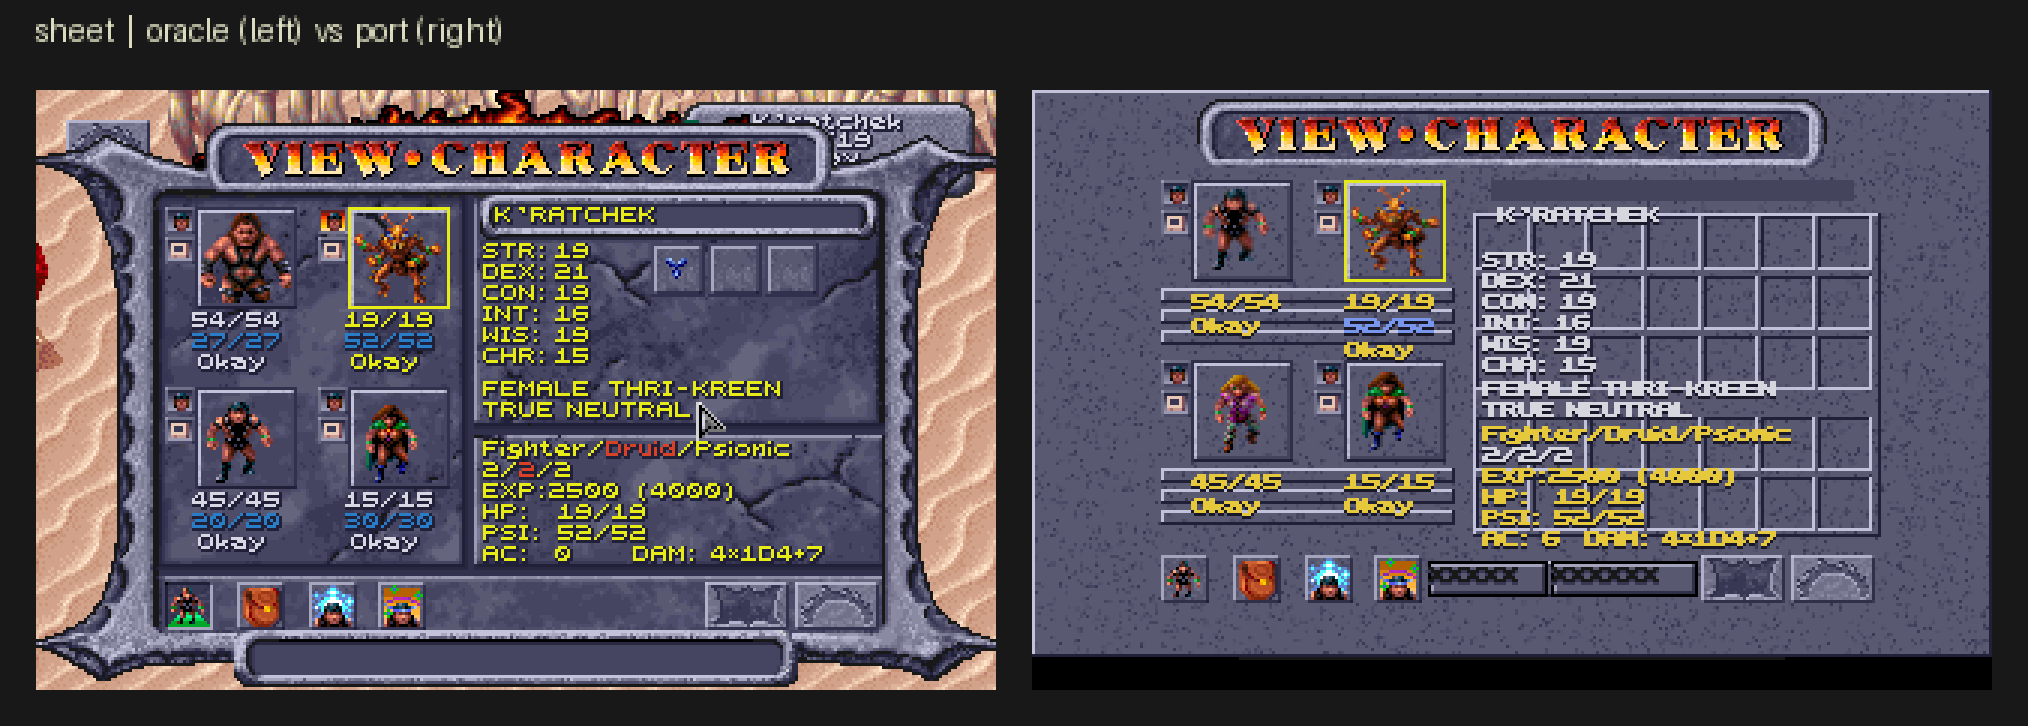
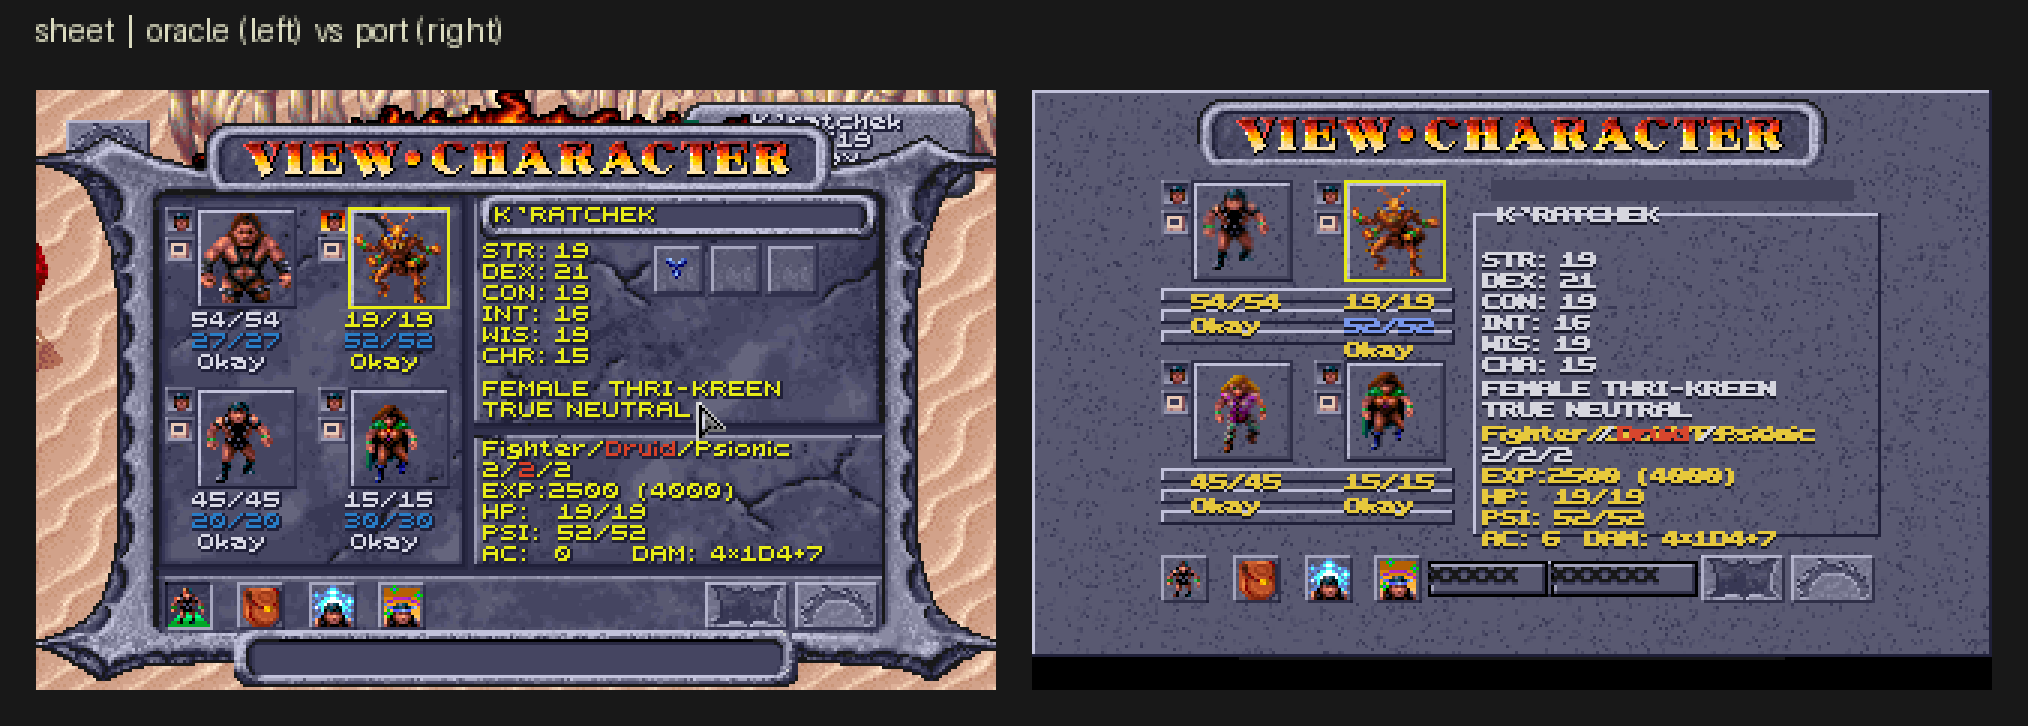
port-spike: spell info 15503, item examine 15502, interact 3020, per-class colors
SpellInfoScreen (WIND 15503, plate 15002): right-clicking a USE-grid
spell opens its SPIN chunk text (the game's own description) wrapped
at the EBOX 15400 width; spins.json exports all 180 SPIN descriptions.

ExamineScreen (WIND 15502): right-clicking an occupied inventory cell
shows the item's icon, name, damage or AC bonus, and weight (IT1R
fields via the exporter).

InteractScreen (WIND 3020): the talk/steal/give/INFO strip with the
capability mask dimming, bevel clipped to the 92x77 window; clicking
a world entity in play opens it, talk replays the announcer patter.

Sheet: the multi-class line draws per-class coloured segments
(Fighter/Gladiator/Ranger/Psionic gold, Druid/Preserver red, Cleric
white) per the 0x72D29 group structure, sampled from the oracle
capture.

Changed region(s): [[0.7456, 0.2727, 0.932, 0.5455], [0.7456, 0.5758, 0.932, 0.7576], [0.7766, 0.5152, 0.8077, 0.5455]]

diff --git a/port-spike/export_items.py b/port-spike/export_items.py
@@ -139,6 +139,12 @@ def export_item_icons(pal) -> dict[int, dict]:
             )
             if 0 <= row.name_idx < len(pool):
                 name = pool[row.name_idx]
+        weight = 0
+        base_ac = 0
+        if row is not None and 0 <= row.stats_index < len(it1r) // 20:
+            st_row = ec.decode_ds1_it1r(it1r, row.stats_index)
+            weight = st_row.weight
+            base_ac = st_row.base_ac
         out[oid] = {
             "png": png,
             "w": w,
@@ -149,6 +155,8 @@ def export_item_icons(pal) -> dict[int, dict]:
             "sides": sides,
             "mod": mod,
             "attacks": attacks,
+            "weight": weight,
+            "base_ac": base_ac,
         }
         print(f"object {oid}: {name!r} bmp {bmp_id} {w}x{h} place {place}")
     return out
@@ -200,7 +208,33 @@ def export_overlays(pal) -> dict:
     out["parchment"] = {"png": "parchment_13005.png", "w": w, "h": h}
     print(f"BMP {PARCHMENT_BMP}: {w}x{h} parchment")
 
-    # overhead-map plate (the engine's O-key frame; no WIND carries it)
+    # the fourteen race/gender standing figures for the inventory
+    # centre card (port-digs-2026-09-20.md 1: 20000 + (race-1)*2 +
+    # (gender-1); BMP 20013 matched the oracle capture 100.0%)
+    for fid in range(20000, 20014):
+        fig = bmps[fid]
+        w, h, rgba = decode_container_frame(fig, 0, pal, resource=True)
+        write_png(OUT / f"figure_{fid}.png", w, h, rgba)
+    out["figures"] = {"first": 20000, "count": 14,
+        "rule": "20000 + (race_i - 1) * 2 + (gender_i - 1)",
+        "card_offset": [6, 13]}
+    print("figures 20000..20013 exported")
+
+    # SPIN spell descriptions (RESOURCE SPIN id = spell id; the text
+    # starts at byte 0: "NAME:  description ..."). 15503 shows these
+    # verbatim in its EBOX (screen-flow.md 8.4).
+    spins = {}
+    for cid, payload in ec.resolve_type(res, "SPIN"):
+        text = payload.decode("latin-1", errors="replace").replace("\x00", " ").strip()
+        if not text:
+            continue
+        name, _, desc = text.partition(":")
+        spins[str(cid)] = {"name": name.strip(), "text": text}
+    out["spins"] = spins
+    print(f"SPIN descriptions: {len(spins)}")
+
+    # LOAD-mode title art (the engine binds these onto 3009's buttons
+    # in LOAD mode; the chunk faces ship as the SAVE variant)
     plate = bmps[MAP_PLATE_BMP]
     w, h, rgba = decode_container_frame(plate, 0, pal, resource=True)
     write_png(OUT / "map_10003.png", w, h, rgba)
@@ -255,6 +289,19 @@ def export_overlays(pal) -> dict:
     Image.fromarray(arr[0:58, 1:319]).save(OUT / "dialog_plate_3007.png")
     out["dialog_plate"] = {"png": "dialog_plate_3007.png", "w": 318, "h": 58}
     print("dialog plate 3007 regenerated")
+
+    # SPIN spell descriptions (RESOURCE SPIN id = spell id; the text
+    # starts at byte 0: "NAME:  description ..."). 15503 shows these
+    # verbatim in its EBOX (screen-flow.md 8.4).
+    spins = {}
+    for cid, payload in ec.resolve_type(res, "SPIN"):
+        text = payload.decode("latin-1", errors="replace").replace("\x00", " ").strip()
+        if not text:
+            continue
+        name, _, desc = text.partition(":")
+        spins[str(cid)] = {"name": name.strip(), "text": text}
+    out["spins"] = spins
+    print(f"SPIN descriptions: {len(spins)}")
 
     # LOAD-mode title art (the engine binds these onto 3009's buttons
     # in LOAD mode; the chunk faces ship as the SAVE variant)
@@ -358,6 +405,17 @@ def make_inventory_bg() -> str:
     arr[42:60, 57:75] = np.asarray(glyph)
 
     Image.fromarray(arr).save(OUT / "bg_13500.png")
+
+    # the centre card: reset to the blank parchment 13005 so the live
+    # layer owns the card (the baked figure was K'tarchek's; the
+    # per-member figures now draw over the card instead)
+    card = OUT / "parchment_13005.png"
+    if card.exists():
+        base = Image.open(OUT / "bg_13500.png").convert("RGBA")
+        parch = Image.open(card).convert("RGBA")
+        base.alpha_composite(parch, (75, 36))
+        base.save(OUT / "bg_13500.png")
+        print("bg_13500 card reset to blank parchment")
     print("regenerated bg_13500.png from the oracle capture")
     return "bg_13500.png"
 
